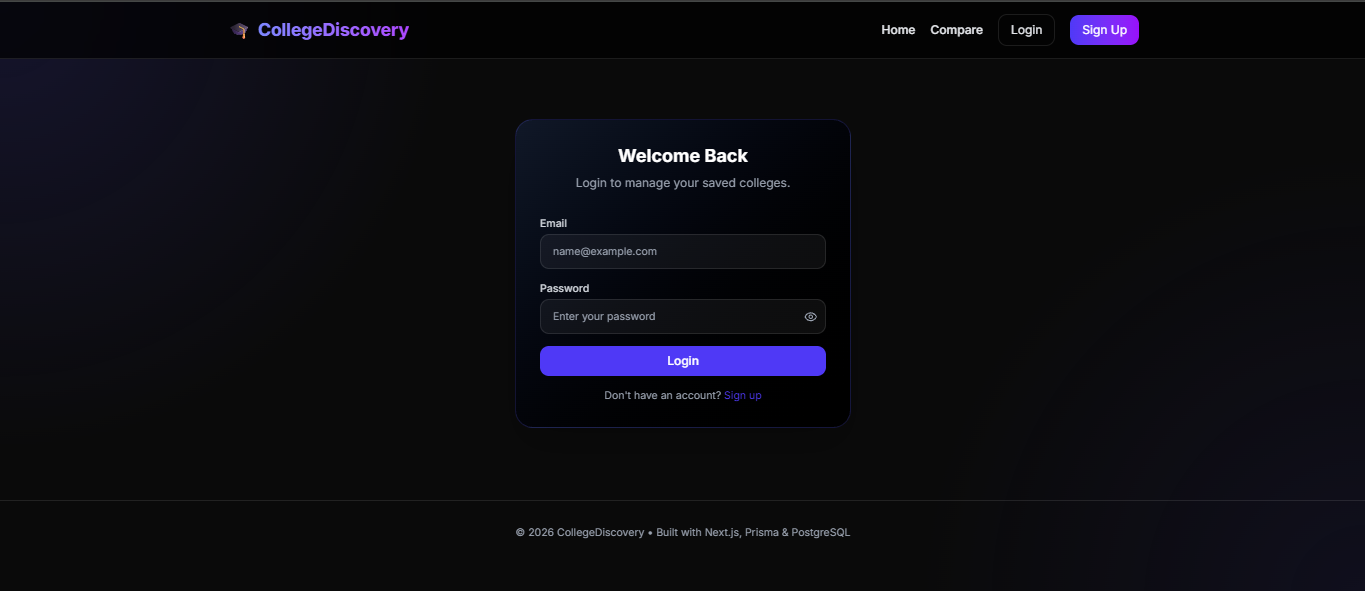
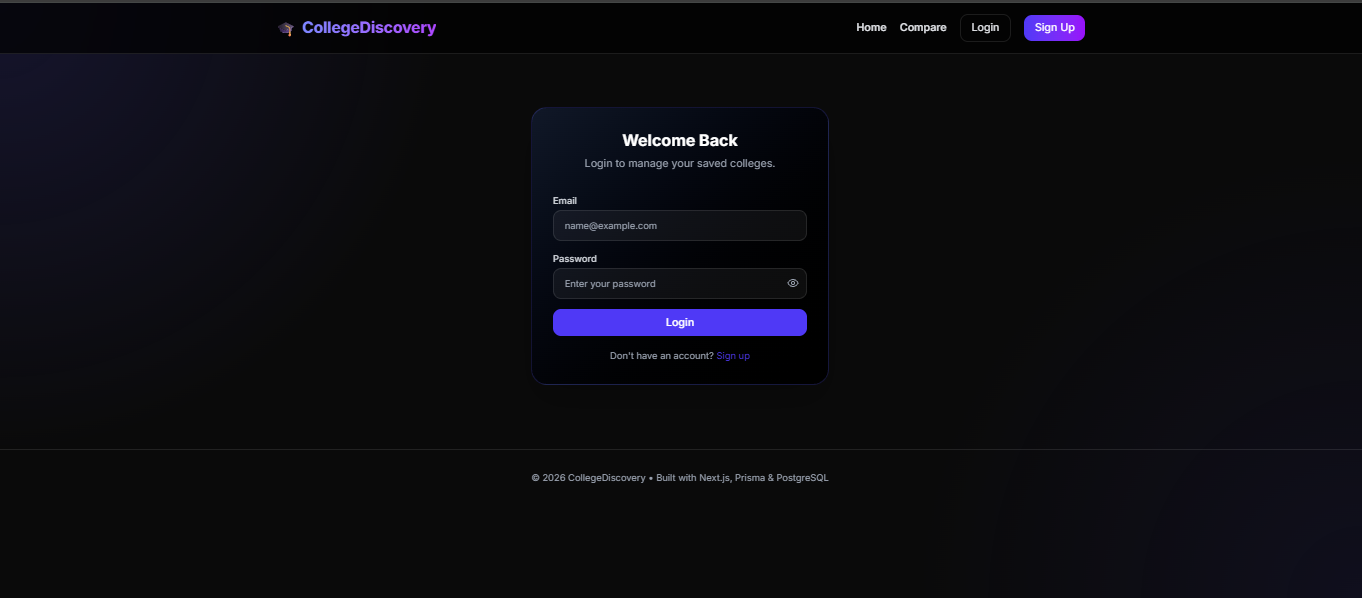
Added More Screenshots to Readme

diff --git a/README.md b/README.md
@@ -53,6 +53,14 @@ Backend API: https://college-platform-dv5r.onrender.com
 
 ![Homepage](./screenshots/homepage.png)
 
+### 🏠 Homepage (Logged In)
+
+![Homepage Logged In](./screenshots/homepage-loggedin.png)
+
+### 🎯 Homepage with Filters
+
+![Homepage Filters](./screenshots/homepage-filters.png)
+
 ### 🔐 Login Page
 
 ![Login](./screenshots/login.png)